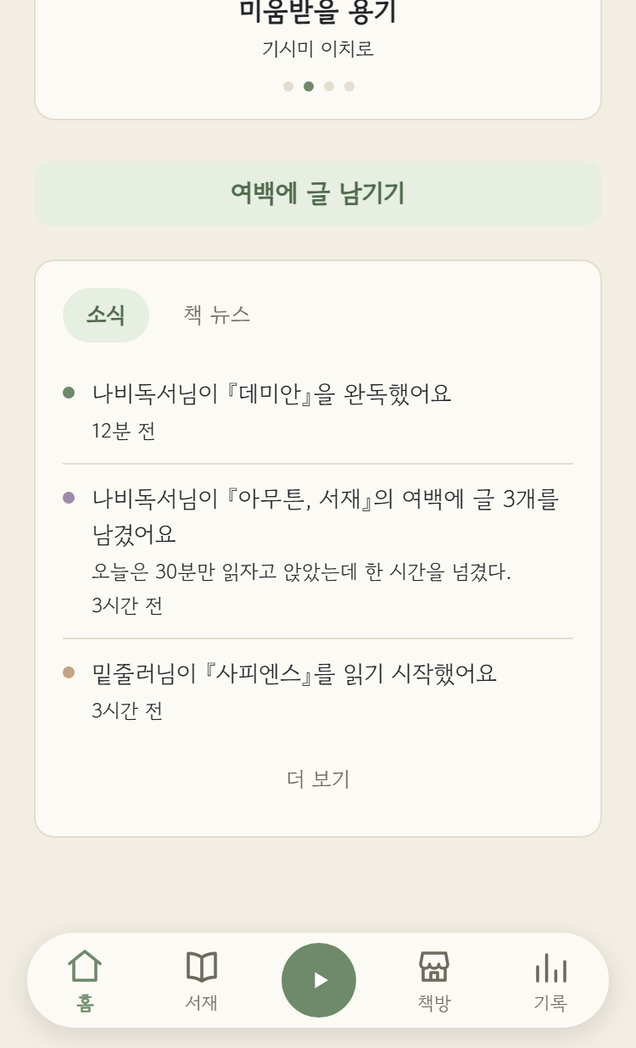
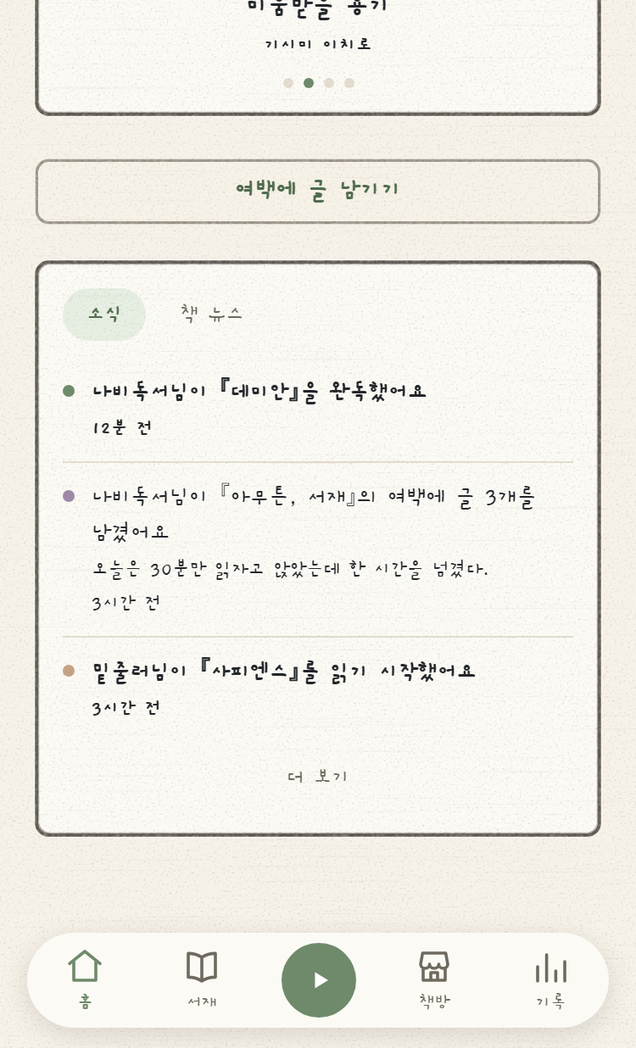
chore(미니앱): 스토어 스크린샷을 「종이·연필」 테마로 다시 찍는다
콘솔에 올라가 있던 6장이 전부 테마 전환(#857~861) 이전 그림이었다. 지금 앱은
손글씨 서체·연필 테두리·크림 종이인데 스토어 그림은 고딕·반듯한 카드라
「실제 앱과 다르다」가 반려 사유로 얹힐 자리였다.

가로 배너에서 함정이 하나 드러났다 — 배너는 세로 컷을 얹은 합성물인데 배너
자체의 CSS는 앱을 안 따라가서, 배경이 옛 종이색(#F3EEE4)이고 카피가 고딕이라
손글씨 폰 3장과 따로 놀았다. 종이색을 #F7F2E8로 맞추고 카피 서체도 앱 본문과
같은 Gaegu로 옮겼다.

Gaegu는 x-height가 작아 제목을 58→66px로 올리되 본문은 25px에 묶었다 — 자폭이
넓어 올리면 480px 안에서 되접히고 그 줄이 폰 그림 위로 넘어간다(실측).

재발 방지로 README에 「앱의 색 토큰·본문 서체를 바꾸면 배너 CSS도 같이 본다」를
박았다.

Session-Model: claude-opus-5

🤖 Generated with [Claude Code](https://claude.com/claude-code)

diff --git a/claude-docs/changelog.md b/claude-docs/changelog.md
@@ -732,3 +732,4 @@
 | 2026-08-18 | **fix: 종이 결이 종이와 함께 스크롤하게 한다** — 실기기에서 형님이 「배경이랑 요소들은 움직이는데 필터 무늬는 움직이지 않아 어색하다」고 반려했다. 정확한 진단이었다: 종이 결 레이어(`body::before`)가 `position: fixed`라 **뷰포트에 못 박혀** 있었다 — 결이 종이가 아니라 화면에 낀 유리처럼 보인다. 처음 fixed를 고른 이유는 성능(변하지 않는 fixed 레이어는 GPU 텍스처로 한 번 캐시)이었는데, 그 판단이 **재질감의 의미**를 무시했다: 결은 화면의 성질이 아니라 종이의 성질이라 종이와 함께 움직여야 한다. `position: absolute` + `body { position: relative }`로 바꿨다 — 이 둘은 한 쌍이다(기준이 없으면 초기 컨테이닝 블록에 걸려 첫 화면 높이까지만 깔리고, 그것도 스크롤해야 보이는 조용한 실패다). 미니앱엔 `min-height: 100dvh`도 넣어 짧은 화면의 아래쪽이 민 종이로 남지 않게 했다. **덤으로 z-index를 9999 → 90으로 낮췄다** — 안 낮추면 같은 어색함이 뒤집혀 재발한다(결이 고정 탭바 위를 미끄러진다). 본문 최대가 웹 61·미니앱 0이고 떠 있는 것들이 100·150·200·201이라, 90이 「본문 위 · 떠 있는 것 아래」를 동시에 만족하는 밴드다(T-192). TDD RED→GREEN: 미니앱 755건(신규 3건 — absolute 존재·fixed 부재 / body 기준 / z-index<100). ⚠ **단위테스트로는 원리상 못 잡는 클래스**라 실 브라우저로 정량 확인했다: 결 레이어와 **같은 배치의 프로브**를 심어 `getBoundingClientRect().top`이 스크롤량과 정확히 같은 양 움직이는지 측정(미니앱 206=206 · 웹 400=400), 탭바는 제자리이고 결에 덮이지 않음을 함께 확인. 노이즈는 눈으로 대조가 안 돼 임시 줄무늬를 주입해 봤다. 「검증 환경이 관대」 트랩군 8회차 — 이번 축은 콘텐츠도 엔진도 아닌 **동작**이다(정지 화면만 봤다). |
 | 2026-08-19 | **fix: 종이를 밝히고 결 밀도를 낮춘다** — 사용자가 「너무 어둡다. 얼룩이 과해서 비 오는 우중충한 느낌」이라고 반려했다. 소스의 종이색은 밝은 크림(`--bg: #F3EEE4`)인데 화면은 어두웠다 — 캔버스로 재 보니 결 입자가 **픽셀의 61%**를 덮어, 실제로 보이는 색이 합성 결과인 **#E5E0D6**이었다. 「어둡다」와 「얼룩이 과하다」가 하나의 원인이었던 것. T-191에서 노이즈를 색→알파로 옮겨 안개는 걷었지만 **세기 상수는 옛 불투명 레이어에 맞춘 값을 그대로 뒀던 것**이 뿌리다. 알파 오프셋을 올려 켜지는 픽셀을 61%→25%(섬유 31%→8%)로 줄이고 입자색을 한 단계 올린 뒤, 종이색을 `#F7F2E8`로 밝혔다 → 합성 결과 **#F4EFE5**. 웹·미니앱·PWA `manifest.json`·목표 휠 페이드까지 같은 값으로 맞췄다. 네 안(현재/얼룩만/둘 다/더 밝게)을 한 화면에 나란히 렌더하고 수치를 함께 찍어 사용자가 고르게 했다 — 눈으로는 종이색 변화와 결 밀도 변화가 구별되지 않는다. TDD RED→GREEN: 미니앱 756건(신규 1건 — 캔버스색과 휠 페이드 그라데이션을 한 값에 묶는 가드. 캔버스만 먼저 바꿔 이 테스트가 실제로 RED가 되는 것을 확인한 뒤 나머지를 고쳤다). 「검증 환경이 관대」 트랩군 9회차 — 이번 축은 환경도 콘텐츠도 동작도 아닌 **측정 대상**이다(토큰값을 보고 합성 결과를 안 쟀다). (T-193) |
 | 2026-08-19 | **fix: 미니앱 「책 추가」가 담을 곳을 먼저 묻는다** — 검색 결과를 탭하면 되묻지 않고 「읽는 중」으로 들어갔다(사용자 제보). 「가장 잦은 의도」라는 이유로 넣은 단축인데, 읽고 싶어 담은 책까지 읽는 중이 된 뒤 서재 → 관리 → 「읽고 싶어요로 옮기기」를 다시 밟아야 해 **한 탭을 아끼려다 세 탭을 물렸다**. 세 안(상태 시트 / 줄 안 버튼 2개 / 상단 모드 토글)을 실제 화면 시안으로 비교해 **상태 시트**를 골랐다 — 줄 안 버튼은 390px 폭에서 「다 읽음」이 들어갈 자리가 없고 줄 높이가 1.6배가 되며, 모드 토글은 지금 어느 모드인지 잊고 잘못 담는 사고를 부른다. 서재 「관리」 시트와 **같은 껍데기(`ui.Sheet`)·같은 어휘(`SECTIONS`)**로 `AddStatusSheet`을 세워 세 곳을 다 고르게 했고, 순서가 곧 자주 쓰는 순이라 「읽는 중」이 여전히 첫 줄이다. 배선(`onAdd(row, status)` → `addBook`)은 **이미 상태를 받고 있었다** — 하드코딩된 `'READING'` 한 줄이 원인이라 서버·API는 손대지 않았다. 열린 시트는 뒤로가기가 먼저 먹고(`useBackClose`), 고른 즉시 닫는다(열어 둔 채 실패하면 딤이 에러 문구를 덮는다). TDD RED→GREEN: 미니앱 760건(신규 4건 — 세 곳 어휘·순서 / 시트 제목 / 추가 중 잠금 / **진입 직후 시트 없음**). 마지막 항목은 T-183(진입 직후 화면을 덮지 말 것) 회귀 가드다 — 목 모드 실브라우저에서도 진입 직후 딤이 없음과 「읽고 싶어요」로 담으면 그 탭 권수가 1→2로 느는 것까지 확인했다. |
+| 2026-08-19 | **chore(미니앱): 심사 제출 전 스토어 스크린샷을 「종이·연필」 테마로 다시 찍는다** — 콘솔에 올라가 있던 6장이 전부 테마 전환(#857~861) **이전** 그림이었다(마지막 촬영 #854가 08-18 18:28, 테마 첫 커밋이 21:29). 지금 앱은 손글씨 서체·연필 테두리·크림 종이인데 스토어 그림은 고딕·반듯한 카드라 **「실제 앱과 다르다」가 반려 사유로 얹힐 자리**였다. `shoot.mjs`로 6장을 다시 찍었다. ⚠ **가로 배너에서 함정이 하나 드러났다** — 배너는 세로 컷을 얹은 합성물인데 **배너 자체의 CSS는 앱을 안 따라가서**, 배경이 옛 종이색(`#F3EEE4`, T-193에서 밝히기 전 값)이고 카피가 고딕(Gowun Dodum)이라 손글씨 폰 3장과 따로 놀았다. 종이색을 `#F7F2E8`로 맞추고 카피 서체도 앱 본문과 같은 Gaegu로 옮겼다(A/B 시안을 나란히 렌더해 사용자가 B를 골랐다). Gaegu는 x-height가 작아 제목을 58→66px로 올리되 **본문은 25px에 묶었다** — 자폭이 넓어 올리면 480px 안에서 되접히고 그 줄이 폰 그림 위로 넘어간다(실측). 재발 방지로 `screenshots/README.md`에 「앱의 색 토큰·본문 서체를 바꾸면 배너 CSS도 같이 본다」를 박았다. |
